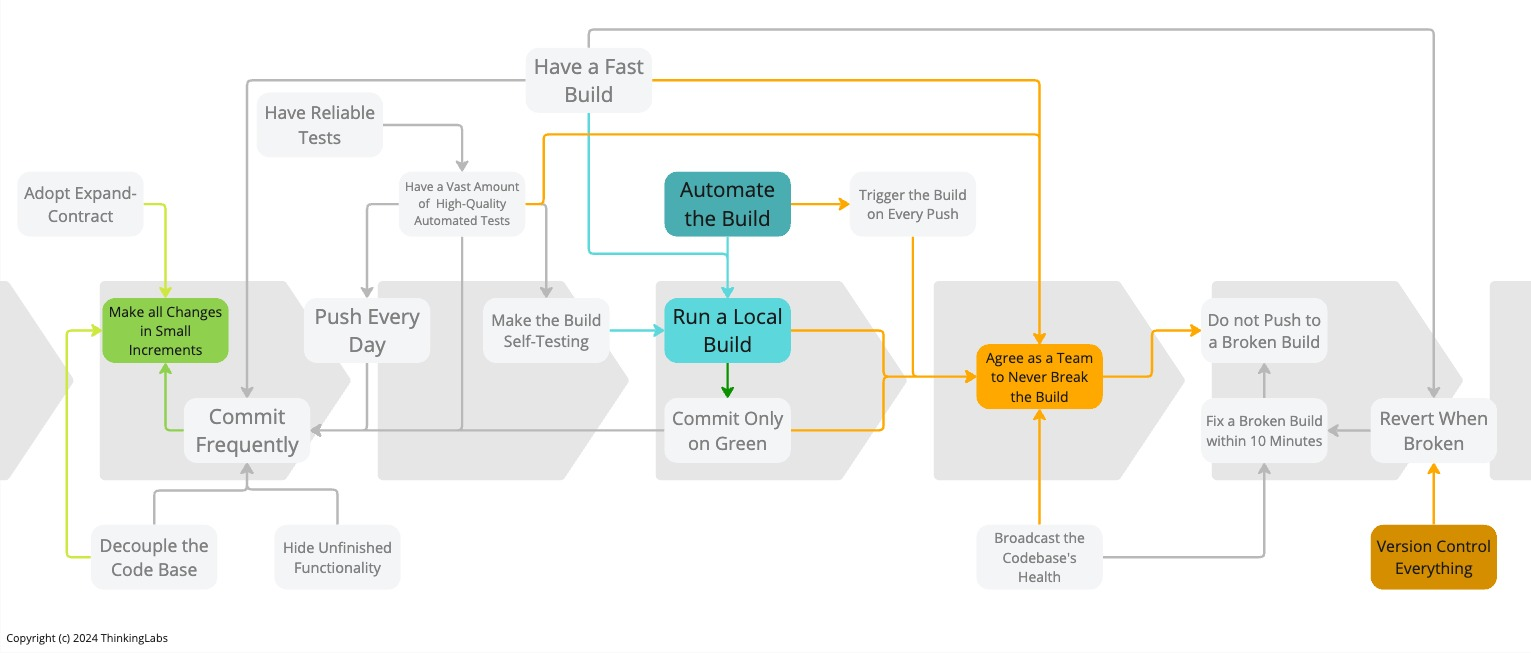
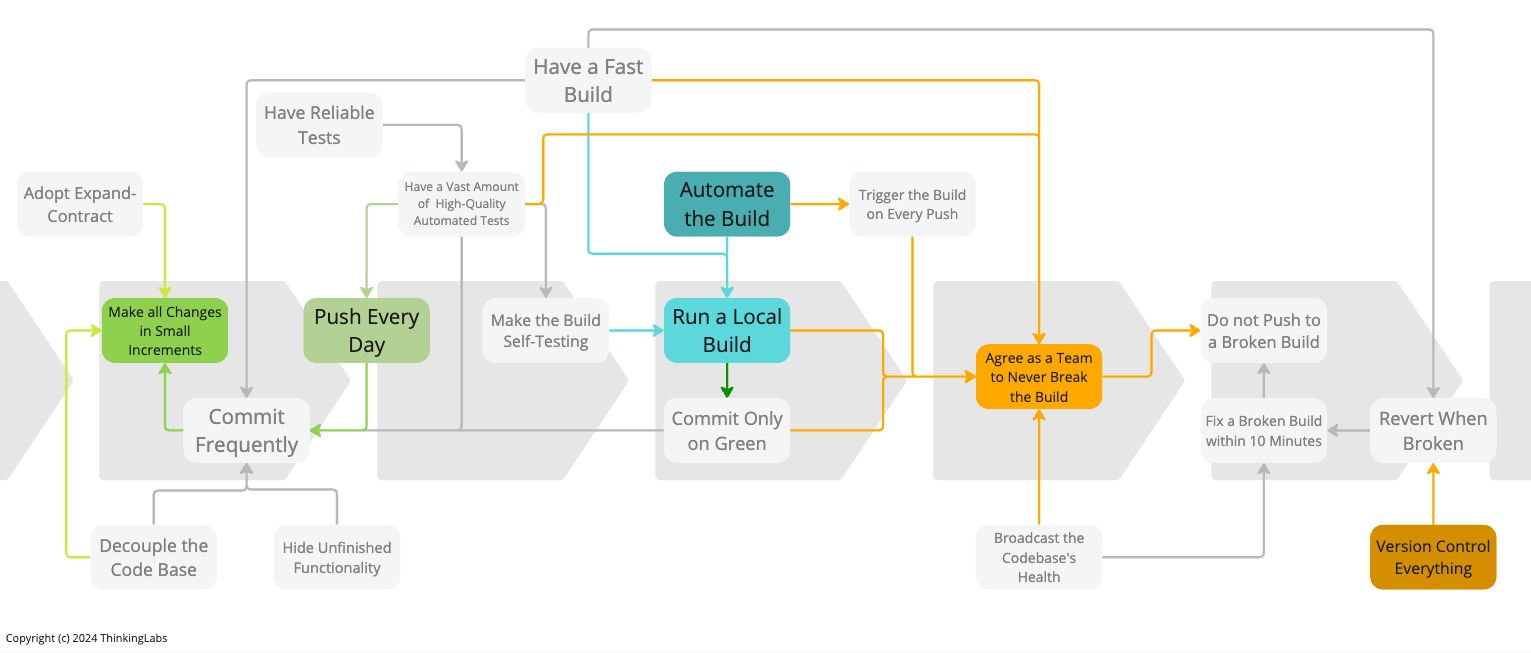
Include a 6th practice to CI where to start

diff --git a/_posts/2024-11-01-continuous-integration-where-to-start.md b/_posts/2024-11-01-continuous-integration-where-to-start.md
@@ -9,7 +9,11 @@ redirect_from:
 - /articles/2024/11/01/beginning-with-continuous-integration.html
 ---
 
-We read about Continuous Integration. The practice appeals to us. We understand its value and benefits, especially as it unlocks our ability to release anytime with high confidence. But, where to start? Many teams believe Continuous Integration is just a tooling problem, to then say they practice Continuous Integration. Although, they often do not. Hence, they miss out on the benefits that come along with it. It takes more than only tooling. So, again, where should we start? After all, there are still [20 practices]({% post_url 2022-06-14-the-practices-that-make-continuous-integration %}) to implement. Which ones to pick first?
+We read about Continuous Integration. The practice appeals to us. We understand its value and benefits, especially as it unlocks our ability to release confidently anytime. But, where to start? Many teams believe Continuous Integration is just a tooling problem, declaring they practice Continuous Integration. Although, they often do not. Hence, they miss out on the benefits that come along with it. It takes more than only tooling. So, again, where should we start? After all, there are still [20 practices]({% post_url 2022-06-14-the-practices-that-make-continuous-integration %}) to implement. Which ones to pick first?
+
+---
+
+*Update Nov 1, 2024: Include a sixth practice, Push Every Day.*
 
 ---
 
@@ -17,7 +21,9 @@ We read about Continuous Integration. The practice appeals to us. We understand 
 
 It all starts with [*Agree as a Team to Never Break the Build*]({% post_url 2022-09-17-the-practices-that-make-continuous-integration-team-working %}#practice-2-agree-as-a-team-to-never-break-the-build). This is unquestionably key to the success of Continuous Integration as a team. That is the number one practice to implement before anything else.
 
-This practice is non-negotiable! No single acceptable reason allows us to break with this agreement. Failing to follow this settlement Continuous Integration will not work for the team. Once we do not have Continuous Integration, our application breaks down until someone else validates it works through manual regression testing. This costs a massive amount of money, requires an unseen length of time to complete, and as a result, uncommonly delays delivery. On top of that, because it is a process gate, research indicates it does not add at all to the quality. Lastly, of utmost importance, it is a waste of the qualities of Test Engineers and anyone else. It is dumb, boring work better handled by machines. People should be used for value-adding activities like Exploratory Testing.
+This practice is non-negotiable! No single acceptable reason allows us to break with this agreement. Failing to follow this settlement Continuous Integration will not work for the team. Once we do not have Continuous Integration, our application breaks down until someone else validates it works through manual regression testing. This costs a massive amount of money, requires an unseen length of time to complete, and as a result, uncommonly delays delivery.
+
+Besides, because it is a process gate, research indicates it does not add at all to the quality. Lastly, of utmost importance, it is a waste of the qualities of Test Engineers and anyone else. It is dumb, boring work that is better handled by machines. People should be used for value-adding activities like Exploratory Testing.
 
 But, this practice assumes we have a [sufficiently comprehensive set of automated tests]({% post_url 2022-09-28-the-practices-that-make-continuous-integration-building %}#practice-13-have-a-vast-amount-of-high-quality-automated-tests) that provides us feedback on whether a change broke the application or not within minutes. Despite that, at this point, we are only testing everything we know about the application. We have no idea whether the application is valuable for users or how it behaves in front of users. That is where the value lies in Test Engineers and Exploratory Testing. That will complete our knowledge with all the unknowns and the missing information.
 
@@ -31,13 +37,15 @@ Without version control, we do not have a single source of truth. Releasing a po
 
 On top of that, a Version Control System is not merely about versioning source code. It is a communication tool for communicating code amongst team members. It helps in reaching a [Shared Understanding](https://en.wikipedia.org/wiki/Extreme_programming_practices#Shared_understanding) and achieving a [Collective Ownership](http://www.extremeprogramming.org/rules/collective.html) about the codebase. Two key [eXtreme Programming](http://www.extremeprogramming.org/) principles that enable communication and collaboration inside the team. Inevitably, this instils superior quality and higher delivery throughput as well as better team morale.
 
-Lastly, by everything, we verily mean everything, i.e. without doubt production code, but also test code, as well as application and system configuration, together with database schema migrations, infrastructure code, but also [architectural decision records](https://www.cognitect.com/blog/2011/11/15/documenting-architecture-decisions) and [runbooks](https://www.pagerduty.com/resources/learn/what-is-a-runbook/). When an engineer clones a version control repository they should find everything to build, test, deploy, release, run and operate the IT system.
+Lastly, by everything, we admittedly mean everything, i.e. without doubt production code, but also test code, as well as application and system configuration, together with database schema migrations, infrastructure code, but also [architectural decision records](https://www.cognitect.com/blog/2011/11/15/documenting-architecture-decisions) and [runbooks](https://www.pagerduty.com/resources/learn/what-is-a-runbook/). When an engineer clones a version control repository they should find everything to build, test, deploy, release, run and operate the IT system.
 
 To perform on-demand production releases anytime we have to have always-working software. This means we have to *Agree as a Team to Never Break the Build*. Therefore, every team member must [*Run a Local Build*]({% post_url 2022-09-28-the-practices-that-make-continuous-integration-building %}#practice-12-run-a-local-build) and only commit and push to a remote [*Mainline*](#mainline) [on green]({% post_url 2022-09-25-the-practices-that-make-continuous-integration-coding %}#practice-7-commit-only-on-green).
 
 We effectively integrate remote changes produced by the rest of the team with our local changes. We try to detect possible integration conflicts early. Not doing so defers this detection to the [*Commit Build*](#commit-build) which might introduce a broken build and violate *Agree As a Team to Never Break The Build*.
 
-To *Run a Local build*, we ought to [*Automate the Build*]({% post_url 2022-09-28-the-practices-that-make-continuous-integration-building %}#practice-11-automate-the-build). This is *not* about having a centralised build server. Having a centralised build server is helpful, but not essential to reach Continuous Integration. Too often teams claim they apply Continuous Integration because they have GitHub Actions, GitLab CI or Jenkins in place. Oftentimes, they do not.
+Integrating locally is one-half of the integration. Rebasing *Mainline* onto a branch when practising [Feature Branches](https://martinfowler.com/bliki/FeatureBranch.html) is equally one-half of the integration. That is appropriate, but not enough. We only have a *Semi-Integration*. To complete the other half, we must push our local changes to the remote *Mainline*. We integrate our changes with all the other existing changes on *Mainline*. As such, we realise a *Full Integration*. This way, we communicate our changes with the rest of the team to allow the team to adapt to our changes. To keep this communication fluid, each team member has to [*Push Every Day*]({% post_url 2024-09-16-the-practices-that-make-continuous-integration-push-every-day %}), leading to multiple integrations per day for the whole team.
+
+To *Run a Local build*, we ought to [*Automate the Build*]({% post_url 2022-09-28-the-practices-that-make-continuous-integration-building %}#practice-11-automate-the-build). This is *not* about having a centralised build server. Having a centralised build server is helpful, but not essential to reach Continuous Integration. Too often teams claim they apply Continuous Integration because they have GitHub Actions, GitLab CI or Jenkins in place. Regularly, they do not.
 
 Lastly, [*Make all Changes in Small Increments*]({% post_url 2022-09-25-the-practices-that-make-continuous-integration-coding%}#practice-5-make-all-changes-in-small-increments). From my humble experience, that seems to be the toughest practice to adopt. But together with *Agree as a Team to Never Break the Build* it is the most crucial practice to embrace.
 
@@ -53,14 +61,15 @@ For the same reasons, we prefer to work in small, incremental steps because it i
 
 But, this is hard work! We possibly will have to think harder. We might move a bit slower. But with the immense advantage of never breaking the application and being able to perform on-demand production releases when it suits.
 
-Those five practices, *Version Control Everything*, *Agree as a Team to Never Break the Build*, *Run a Local Build*, *Automate the Build* and *Make all Changes in Small Increments*, provide the necessary foundations to experience the benefits of Continuous Integration, i.e. enabling the fast flow of work through the value stream and increased stability. From there, teams can start experimenting with [the remaining 15 practices that make Continuous Integration]({% post_url 2022-06-14-the-practices-that-make-continuous-integration %}).
+These six practices, *Version Control Everything*, *Agree as a Team to Never Break the Build*, *Run a Local Build*, *Push Every Day*, *Automate the Build* and *Make all Changes in Small Increments*, provide the necessary foundations to experience the benefits of Continuous Integration, i.e. enabling the fast flow of work through the value stream and increased stability. From there, teams can start experimenting with [the remaining 15 practices that make Continuous Integration]({% post_url 2022-06-14-the-practices-that-make-continuous-integration %}).
 
-Notice, it only takes two tools to implement Continuous Integration: a version control system and an automated build. That is all. Continuous Integration is undeniably about practices. That is the hard work.
+Notice, that it only takes two tools to implement Continuous Integration: a version control system and an automated build. That is all. Continuous Integration is undeniably about practices. That is hard work.
 
 ## Related Articles
 
 - [Can the Pull Request Replace Agree as a Team to Never Break the Build]({% post_url 2023-03-12-can-the-pull-request-replace-agree-as-a-team-to-never-break-the-build %})
 - [But Agree as a Team to Never Break the Build is like Agreeing to Never Produce a Bug]({% post_url 2023-12-30-but-agree-as-a-team-to-never-break-the-build-is-like-agreeing-to-never-produce-a-bug %})
+- [Continuous Integration is Not a Tooling Problem]({% post_url 2020-03-23-continuous-integration-is-not-a-tooling-problem %})
 - [The Practices that Make Continuous Integration]({% post_url 2022-06-14-the-practices-that-make-continuous-integration %})
 
 ## Definitions
